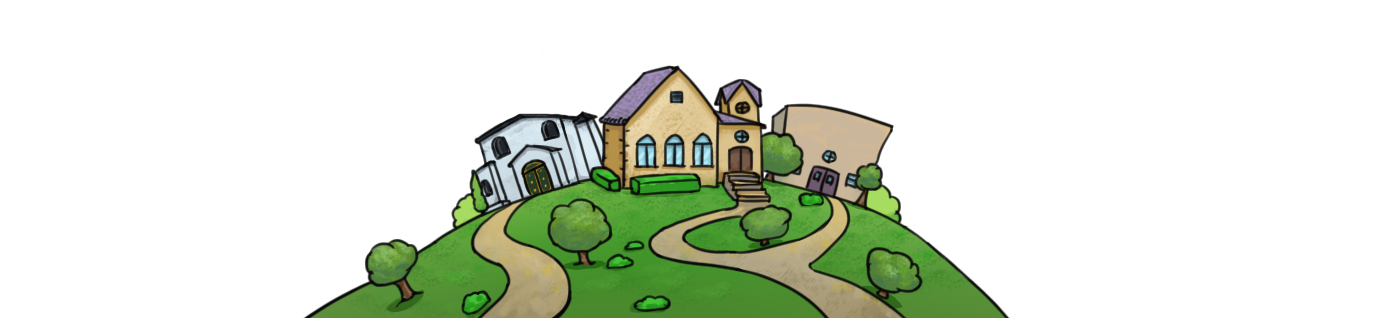
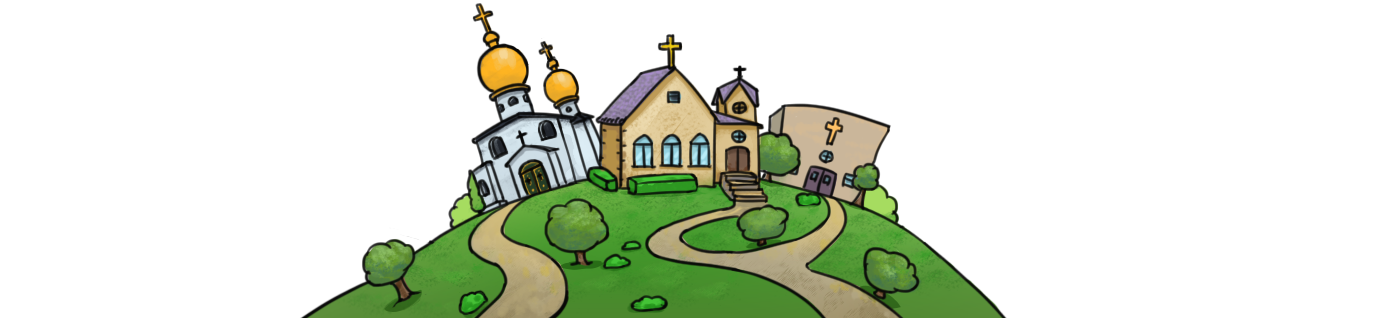
Updated home graphics

diff --git a/www/app/Config/Version.php b/www/app/Config/Version.php
@@ -6,5 +6,5 @@ Config::set('version', array(
     /**
      * Odb Translation release version
      */
-    'release' => 'v.1.0.1'
+    'release' => 'v.1.1.0'
 ));
